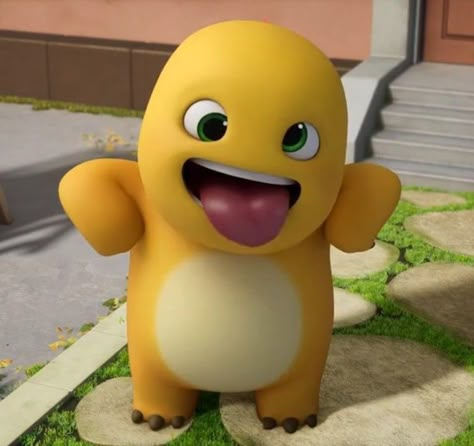
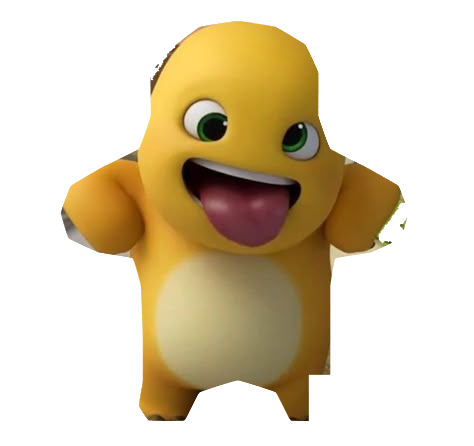
feat(nailoong): remove background from 2nd 3D Nailoong image to create clean transparent character

diff --git a/index.html b/index.html
@@ -1763,7 +1763,7 @@ void main() {
         <!-- 3D Nailoong Friend Character (Standing & sticking tongue out cute pose) -->
         <div class="relative flex flex-col items-center">
           <span class="text-[11px] bg-rose-600 text-white px-2.5 py-0.5 rounded-full font-bold shadow-md mb-1 animate-bounce">Yeay Amel! 🎉</span>
-          <img id="nailoong-friend-img" src="assets/img/nailoong-friend.png?v=20260905" alt="Nailoong Friend 3D" class="w-28 h-28 md:w-36 md:h-36 object-contain drop-shadow-xl hover:scale-105 transition-transform" />
+          <img id="nailoong-friend-img" src="assets/img/nailoong-friend.png?v=20260905_trans" alt="Nailoong Friend 3D" class="w-28 h-28 md:w-36 md:h-36 object-contain drop-shadow-xl hover:scale-105 transition-transform" />
         </div>
 
         <!-- Main Nailoong Character with Toga Hat -->
